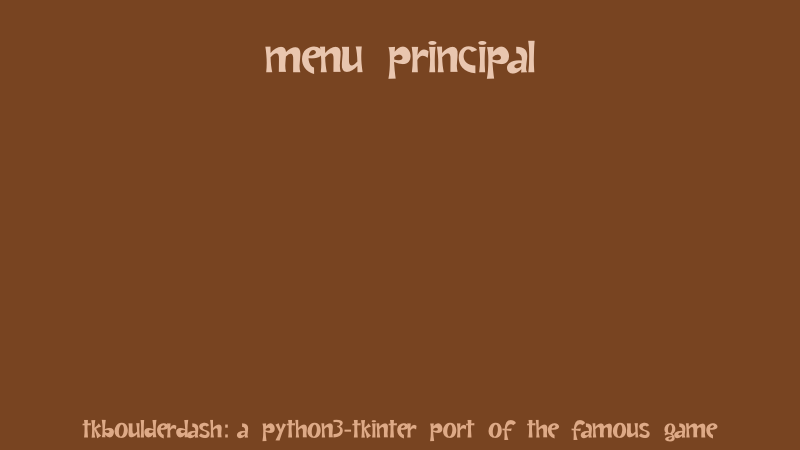
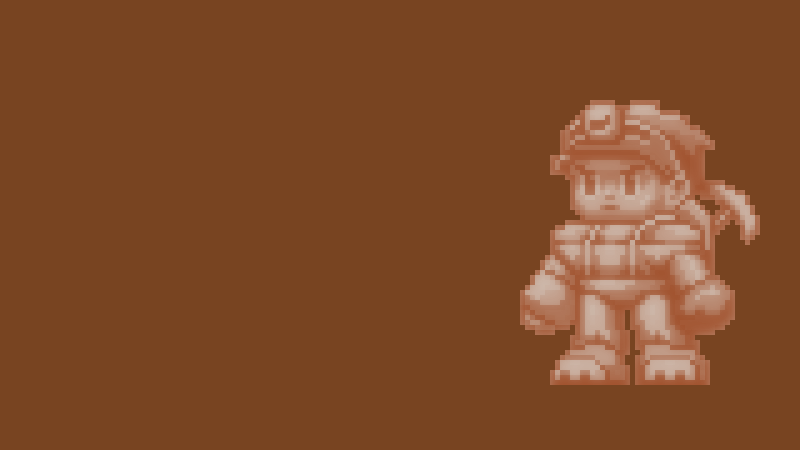
updating splash screens and menus

Changed region(s): [[0.625, 0.2178, 0.9688, 0.8711], [0.0938, 0.9333, 0.9062, 0.9956], [0.3125, 0.0933, 0.6875, 0.1867]]

diff --git a/lib/tk_boulder_dash.py b/lib/tk_boulder_dash.py
@@ -125,29 +125,51 @@ class TkBoulderDash (TK.Frame):
         x, y = self.game_play.viewport_center_xy()
         _opts = dict(
             anchor=TK.CENTER,
-            font="{} 24".format(FONT2),
+            font="{} 32".format(FONT2),
             fill="bisque2",
+        )
+        # titles
+        self.canvas.create_text(
+            x + 4, 24,
+            anchor=TK.N,
+            text="Main Menu",
+            font="{} 36".format(FONT1),
+            fill="grey20",
+        )
+        self.canvas.create_text(
+            x, 20,
+            anchor=TK.N,
+            text="Main Menu",
+            font="{} 36".format(FONT1),
+            fill="indian red",
+        )
+        self.canvas.create_text(
+            x, self.canvas.winfo_reqheight() - 5,
+            anchor=TK.S,
+            text="a Python3-Tkinter port of the famous game",
+            font="{} 20".format(FONT2),
+            fill="indian red",
         )
         # CAUTION:
         # canvas.tag_bind() is buggy /!\
         # do *NOT* use it
         self.menu_id = dict()
         # menu item inits
-        _id = self.canvas.create_text(x, y - 90, text="Jouer", **_opts)
+        _id = self.canvas.create_text(x, y - 90, text="Play", **_opts)
         self.menu_id[_id] = self.run_game
         # menu item inits
         _id = self.canvas.create_text(
-            x, y - 20, text="Touches du clavier", **_opts
+            x, y - 20, text="Keyboard map", **_opts
         )
         self.menu_id[_id] = self.keymap_screen
         # menu item inits
         _id = self.canvas.create_text(
-            x, y + 40, text="Règles du jeu", **_opts
+            x, y + 40, text="Game rules", **_opts
         )
         self.menu_id[_id] = self.game_rules_screen
         # menu item inits
         _id = self.canvas.create_text(
-            x, y + 100, text="Quitter", **_opts
+            x, y + 100, text="Quit game", **_opts
         )
         self.menu_id[_id] = self.quit_game
         # rebind events
